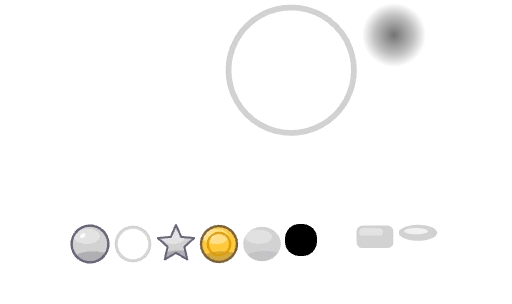
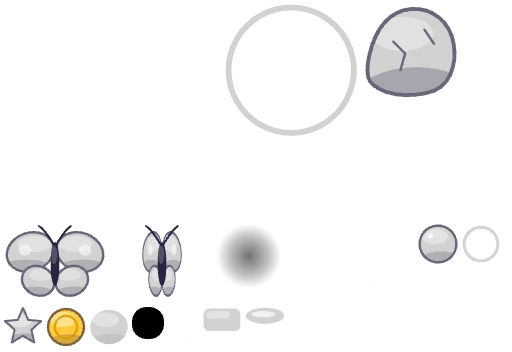
paint: rock and butterfly sprites
Batch C3 (hazards for all ages). PR 1/6.

Why: the owner's decision that spikes and saw blades do not suit an all-ages game; they become rocks and butterflies (docs/PRODUCT.md). Collision, level generation, events and telemetry ids are unchanged; only the picture, colour, words and sound change.
What: paint.ts adds rock (a round stone with two cracks) and bfly0/bfly1 (wings open and closed, alternated as flapping), grey base tinted at run time. atlas-fx re-baked with bun tools/bake/run.mjs --paint: 19 cells, 16.3 KB.

diff --git a/src/render/paint.ts b/src/render/paint.ts
@@ -37,7 +37,34 @@ export const FX: Record<string, Def> = {
   glow: { b: [-1, 1, -1, 1], px: 32, tint: false, paint: (g) => { const gr = g.createRadialGradient(0, 0, 0, 0, 0, 1); gr.addColorStop(0, 'rgba(255,255,255,1)'); gr.addColorStop(0.4, 'rgba(255,255,255,0.45)'); gr.addColorStop(1, 'rgba(255,255,255,0)'); g.fillStyle = gr; g.fillRect(-1, -1, 2, 2); } },
   white: { b: [-1, 1, -1, 1], px: 8, tint: false, paint: (g) => { g.fillStyle = '#ffffff'; g.fillRect(-1, -1, 2, 2); } }, // 純色四邊形用（取中心那一格）
   disc: { b: [-1, 1, -1, 1], px: 32, tint: false, paint: (g) => { g.fillStyle = '#ffffff'; ell(g, 0, 0, 0.94, 0.94); g.fill(); } }, // 太陽日輪
+  // 障礙物（全年齡：石頭取代尖刺、蝴蝶取代鋸片；碰撞還是圓形，只換圖）。執行時各世界用 hazard／saw 色上色
+  rock: { b: [-1, 1, -1, 1], px: 48, tint: true, paint: (g, c) => {
+    vinyl(g, () => boulder(g), c, [0, 0, 0.9, 0.85], { lw: 0.08, hi: 0.35, lo: 0.25 });
+    g.lineWidth = 0.05; g.strokeStyle = inkOf(c); g.beginPath(); g.moveTo(-0.35, 0.2); g.lineTo(-0.1, -0.05); g.lineTo(-0.2, -0.4); g.moveTo(0.3, 0.45); g.lineTo(0.5, 0.15); g.stroke(); // 兩道裂紋
+  } },
+  bfly0: { b: [-1.3, 1.3, -1, 1], px: 40, tint: true, paint: (g, c) => butterfly(g, c, 1) },
+  bfly1: { b: [-1.3, 1.3, -1, 1], px: 40, tint: true, paint: (g, c) => butterfly(g, c, 0.4) },
 };
+// 圓石：不規則多邊形用中點二次曲線圓滑
+function boulder(g: Ctx): void {
+  const pts = [[-0.95, -0.55], [-0.75, 0.35], [-0.3, 0.85], [0.35, 0.9], [0.85, 0.5], [0.97, -0.2], [0.7, -0.8], [0, -0.95], [-0.6, -0.85]], n = pts.length;
+  const mid = (a: number[], b: number[]) => [(a[0] + b[0]) / 2, (a[1] + b[1]) / 2];
+  g.beginPath(); const m0 = mid(pts[n - 1], pts[0]); g.moveTo(m0[0], m0[1]);
+  for (let i = 0; i < n; i++) { const p = pts[i], m = mid(p, pts[(i + 1) % n]); g.quadraticCurveTo(p[0], p[1], m[0], m[1]); }
+  g.closePath();
+}
+// 蝴蝶：上翅大、下翅小、左右對稱；spread＝翅膀張開程度（合翅時 x 壓扁），兩格輪流播就是拍翅
+function butterfly(g: Ctx, c: string, spread: number): void {
+  for (const sgn of [-1, 1]) {
+    g.save(); g.scale(sgn * spread, 1);
+    blob(g, 0.62, 0.3, 0.6, 0.48, c, { lw: 0.06, hi: 0.35, rot: -0.35, glint: false });
+    blob(g, 0.42, -0.42, 0.42, 0.36, c, { lw: 0.06, hi: 0.3, rot: 0.5, glint: false });
+    g.fillStyle = rgba('#ffffff', 0.55); ell(g, 0.75, 0.35, 0.16, 0.14); g.fill(); // 翅上圓點
+    g.restore();
+  }
+  blob(g, 0, 0, 0.11, 0.55, INK, { outline: false, glint: false, hi: 0.2 }); // 身體
+  g.lineWidth = 0.05; g.strokeStyle = INK; g.beginPath(); g.moveTo(-0.04, 0.5); g.quadraticCurveTo(-0.25, 0.85, -0.4, 0.95); g.moveTo(0.04, 0.5); g.quadraticCurveTo(0.25, 0.85, 0.4, 0.95); g.stroke(); // 觸鬚
+}
 
 // ============================================================ 粒子（白色形狀，每顆粒子各自 tint）
 const PP = 40;
